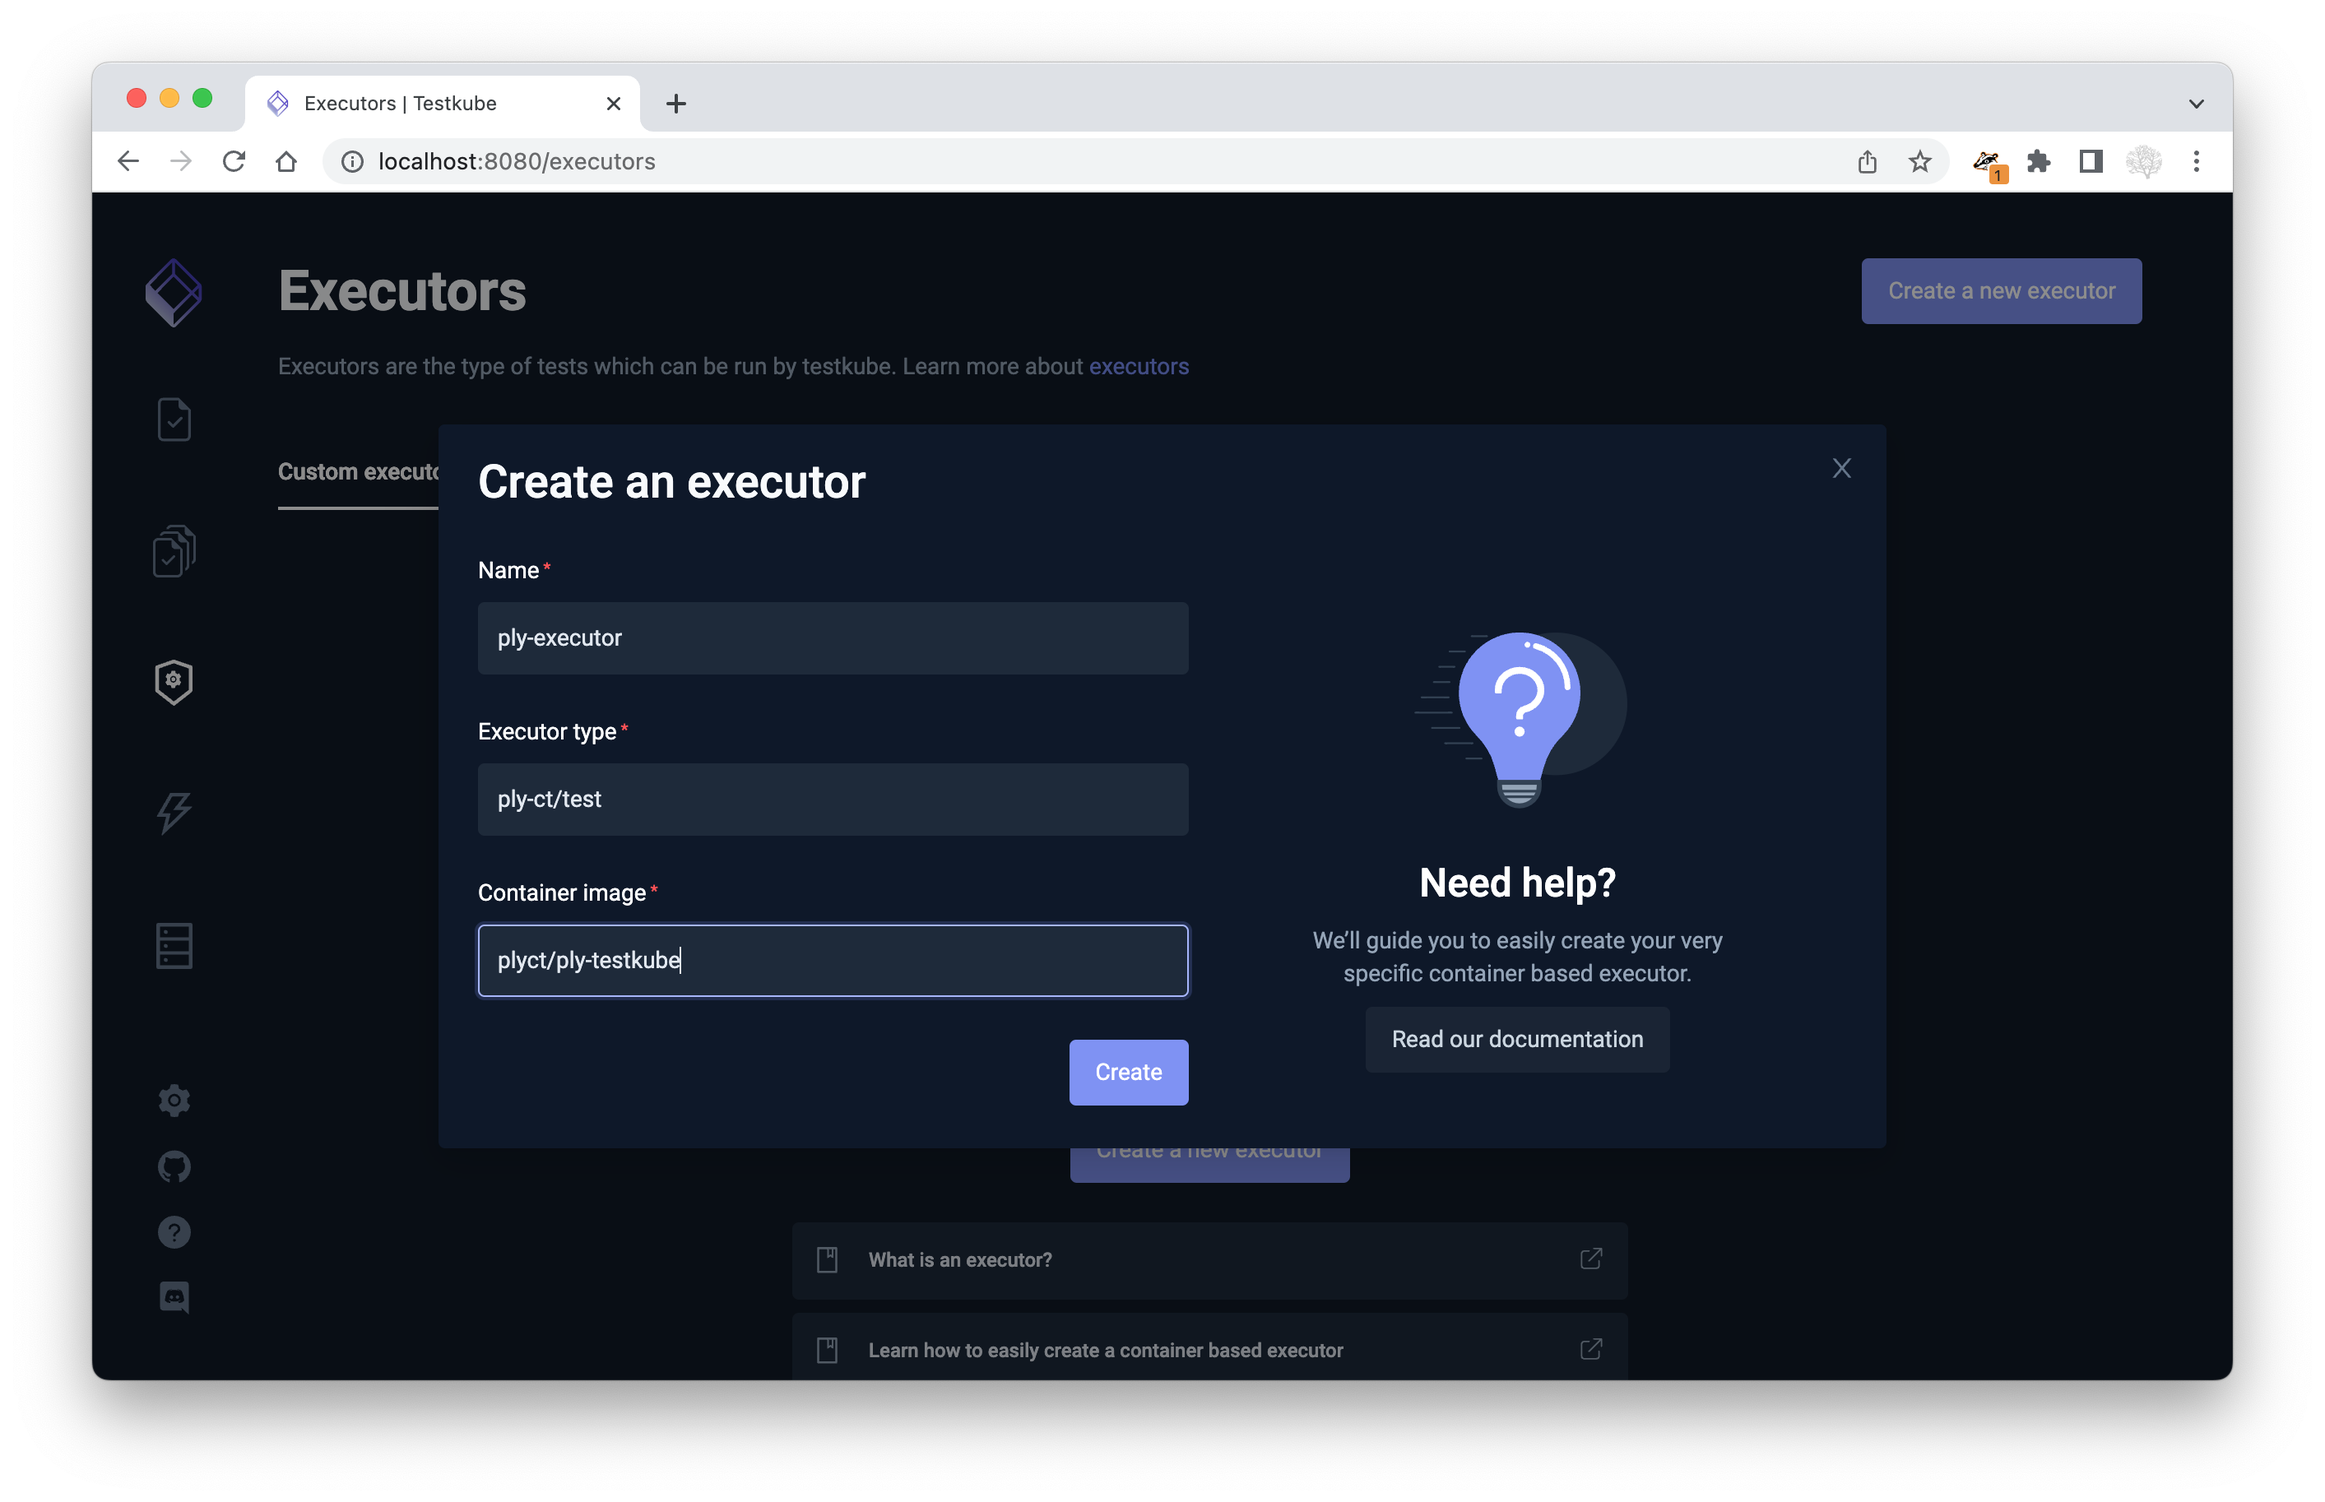
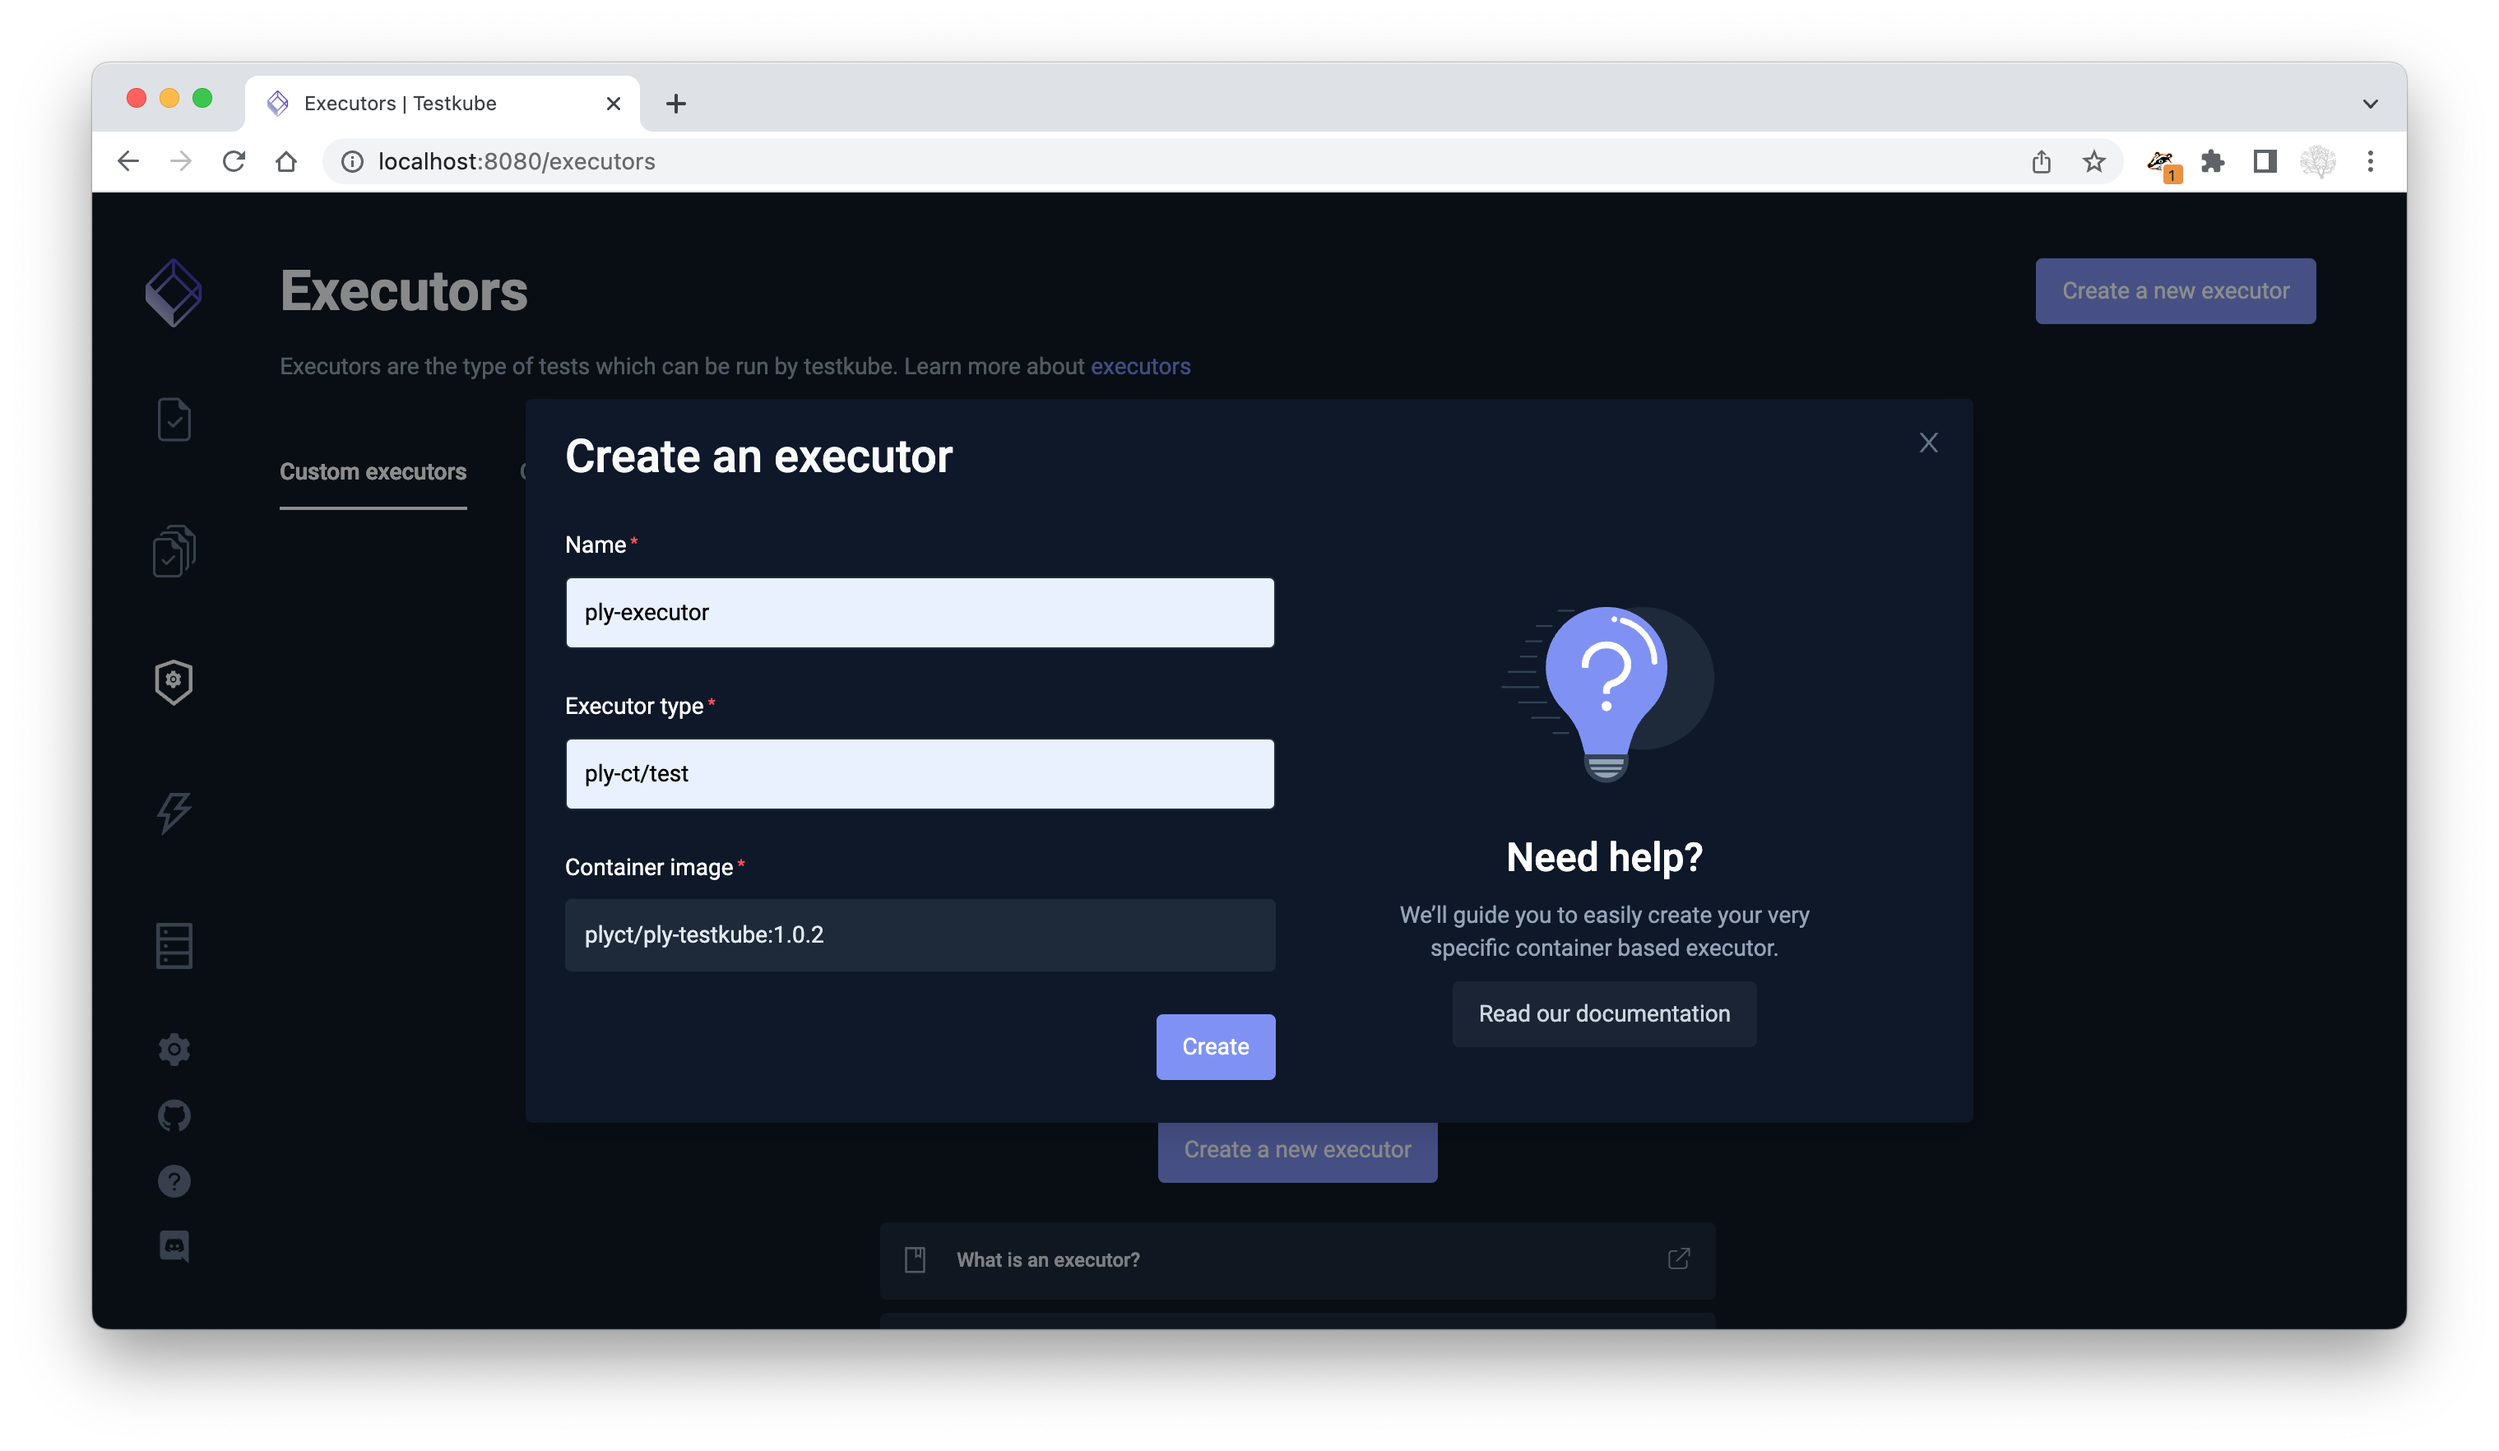
docs [skip ci]

diff --git a/docs/topics/testkube.md b/docs/topics/testkube.md
@@ -2,11 +2,11 @@
 layout: topic
 ---
 # Testkube
-The Ply [Testkube](https://testkube.io/) executor is available in [Docker Hub](https://hub.docker.com/) at `plyct/ply-testkube:1.0.1`.
+The Ply [Testkube](https://testkube.io/) executor is available in [Docker Hub](https://hub.docker.com/) at `plyct/ply-testkube:1.0.2`.
 
 ## Create Ply Testkube executor
 ```
-kubectl testkube create executor --image plyct/ply-testkube --types ply-ct/test --name ply-executor
+kubectl testkube create executor --image plyct/ply-testkube:1.0.2 --types ply-ct/test --name ply-executor
 ```
 Or use the Testkube dashboard:
 <img src="../img/testkube-exec.png" alt="Testkube Executor">
@@ -20,7 +20,8 @@ kubectl testkube create test --name ply-demo --type ply-ct/test --git-uri https:
 ```
 kubectl testkube run test ply-demo --args "values-files=test/values/global.json,test/values/ply-ct.json npmInstall=true"
 ```
-Or to run specific Ply tests:
+Some of these tests will fail because you're not allowed to post updates to ply-ct.org.  
+To run specific Ply tests:
 ```
 kubectl testkube run test ply-demo --args "values-files=test/values/global.json,test/values/ply-ct.json test-files=test/requests/movie-queries.ply.yaml,test/flows/get-movies.ply.flow"
 ```
